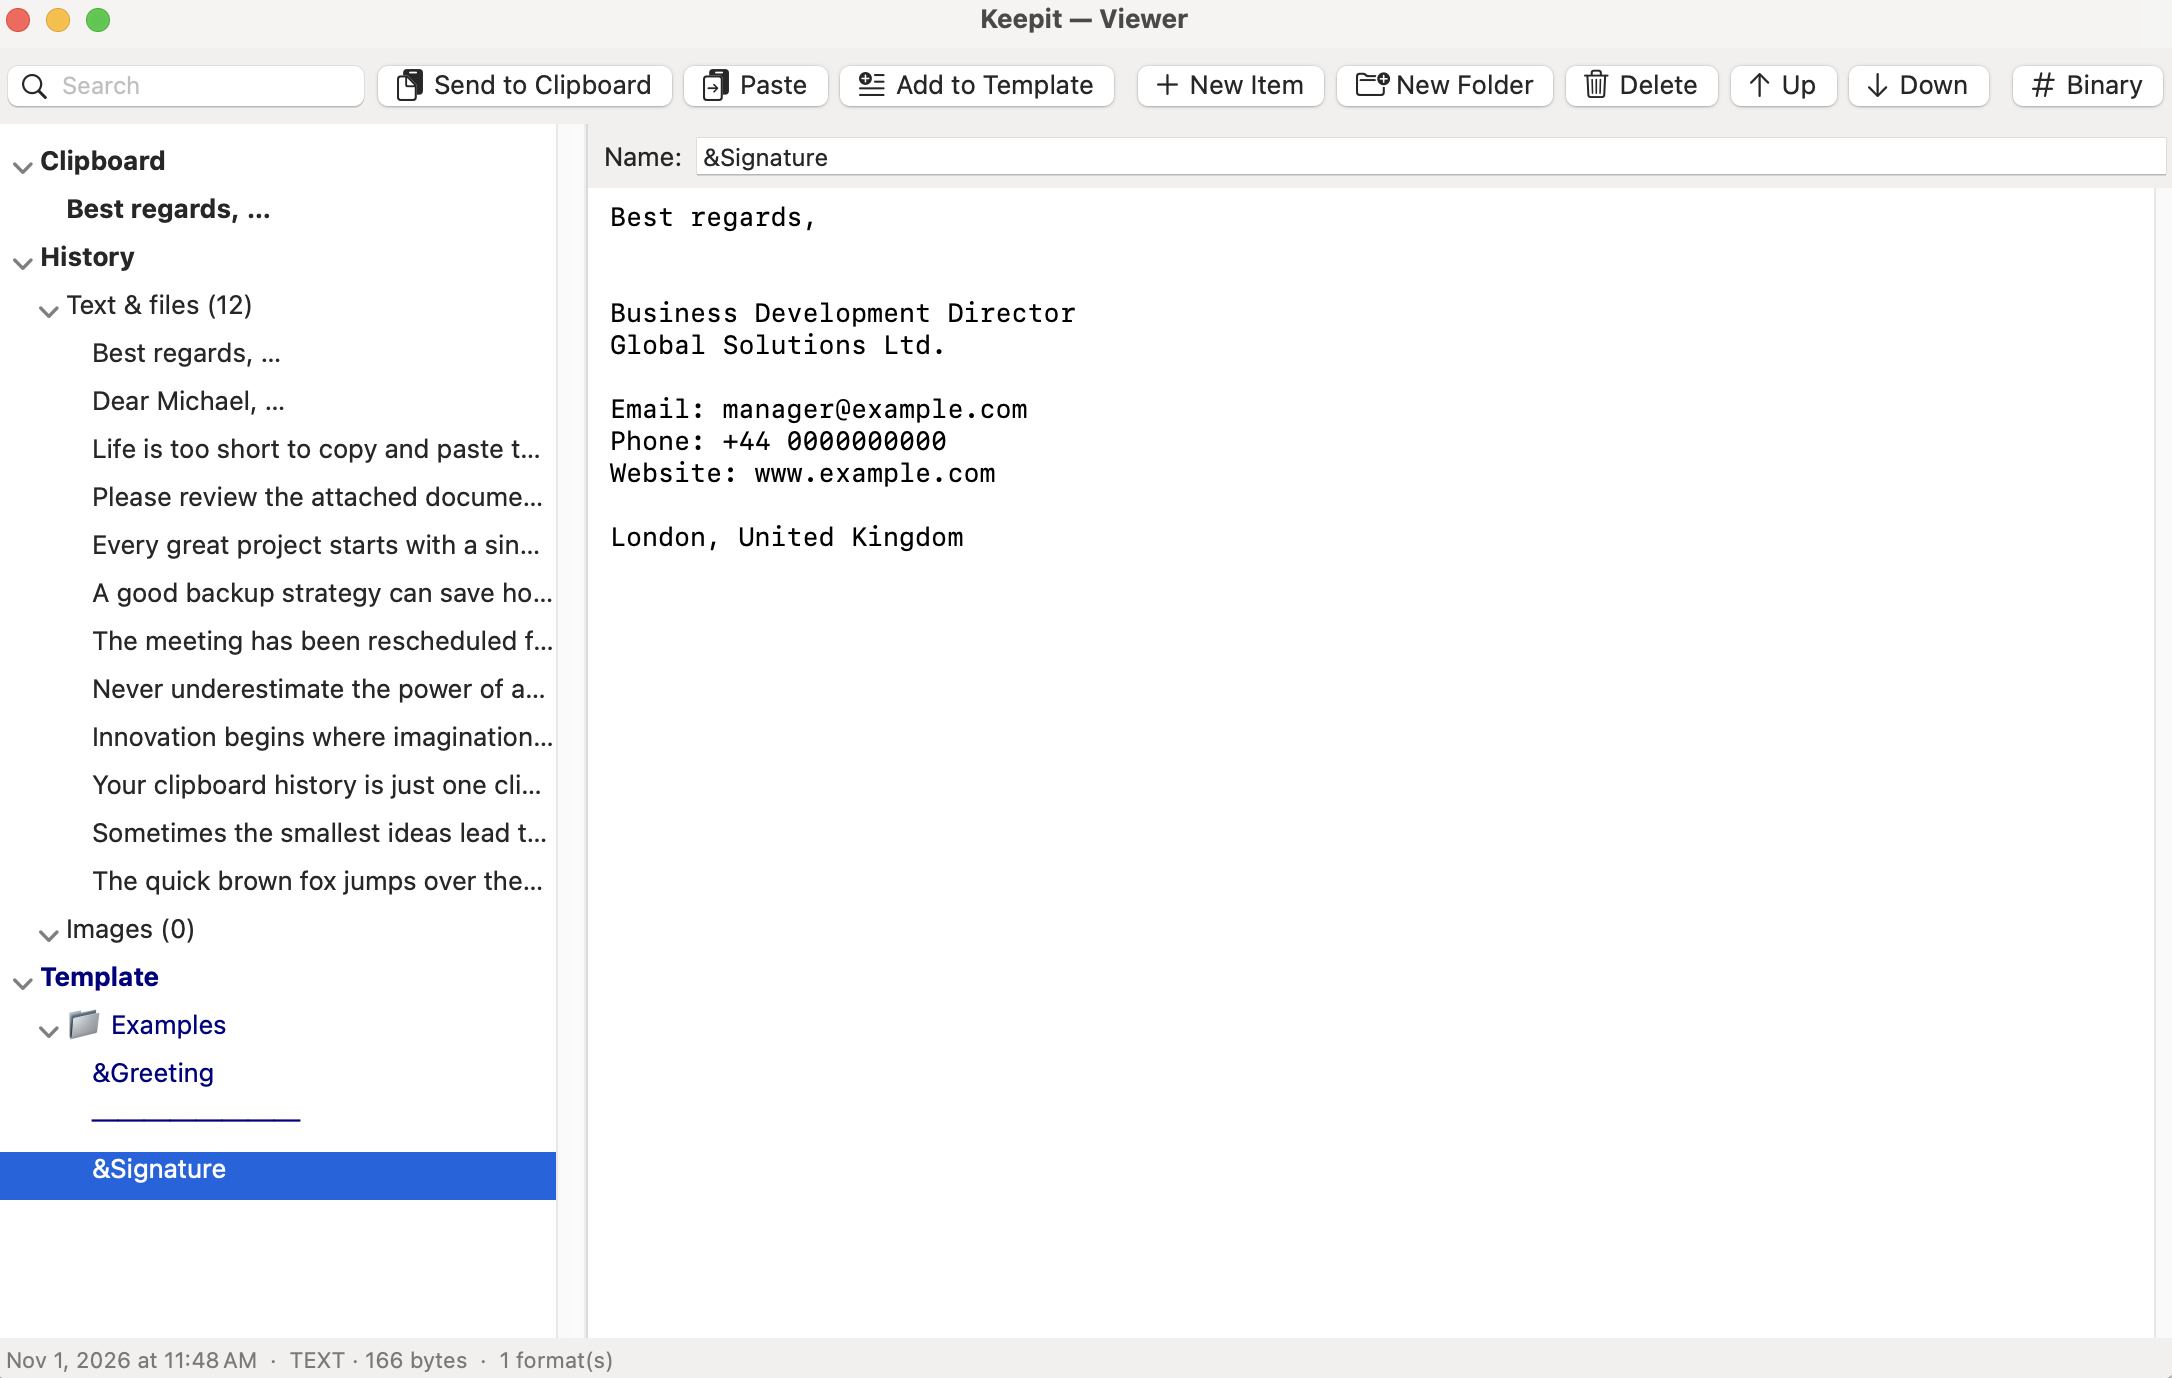
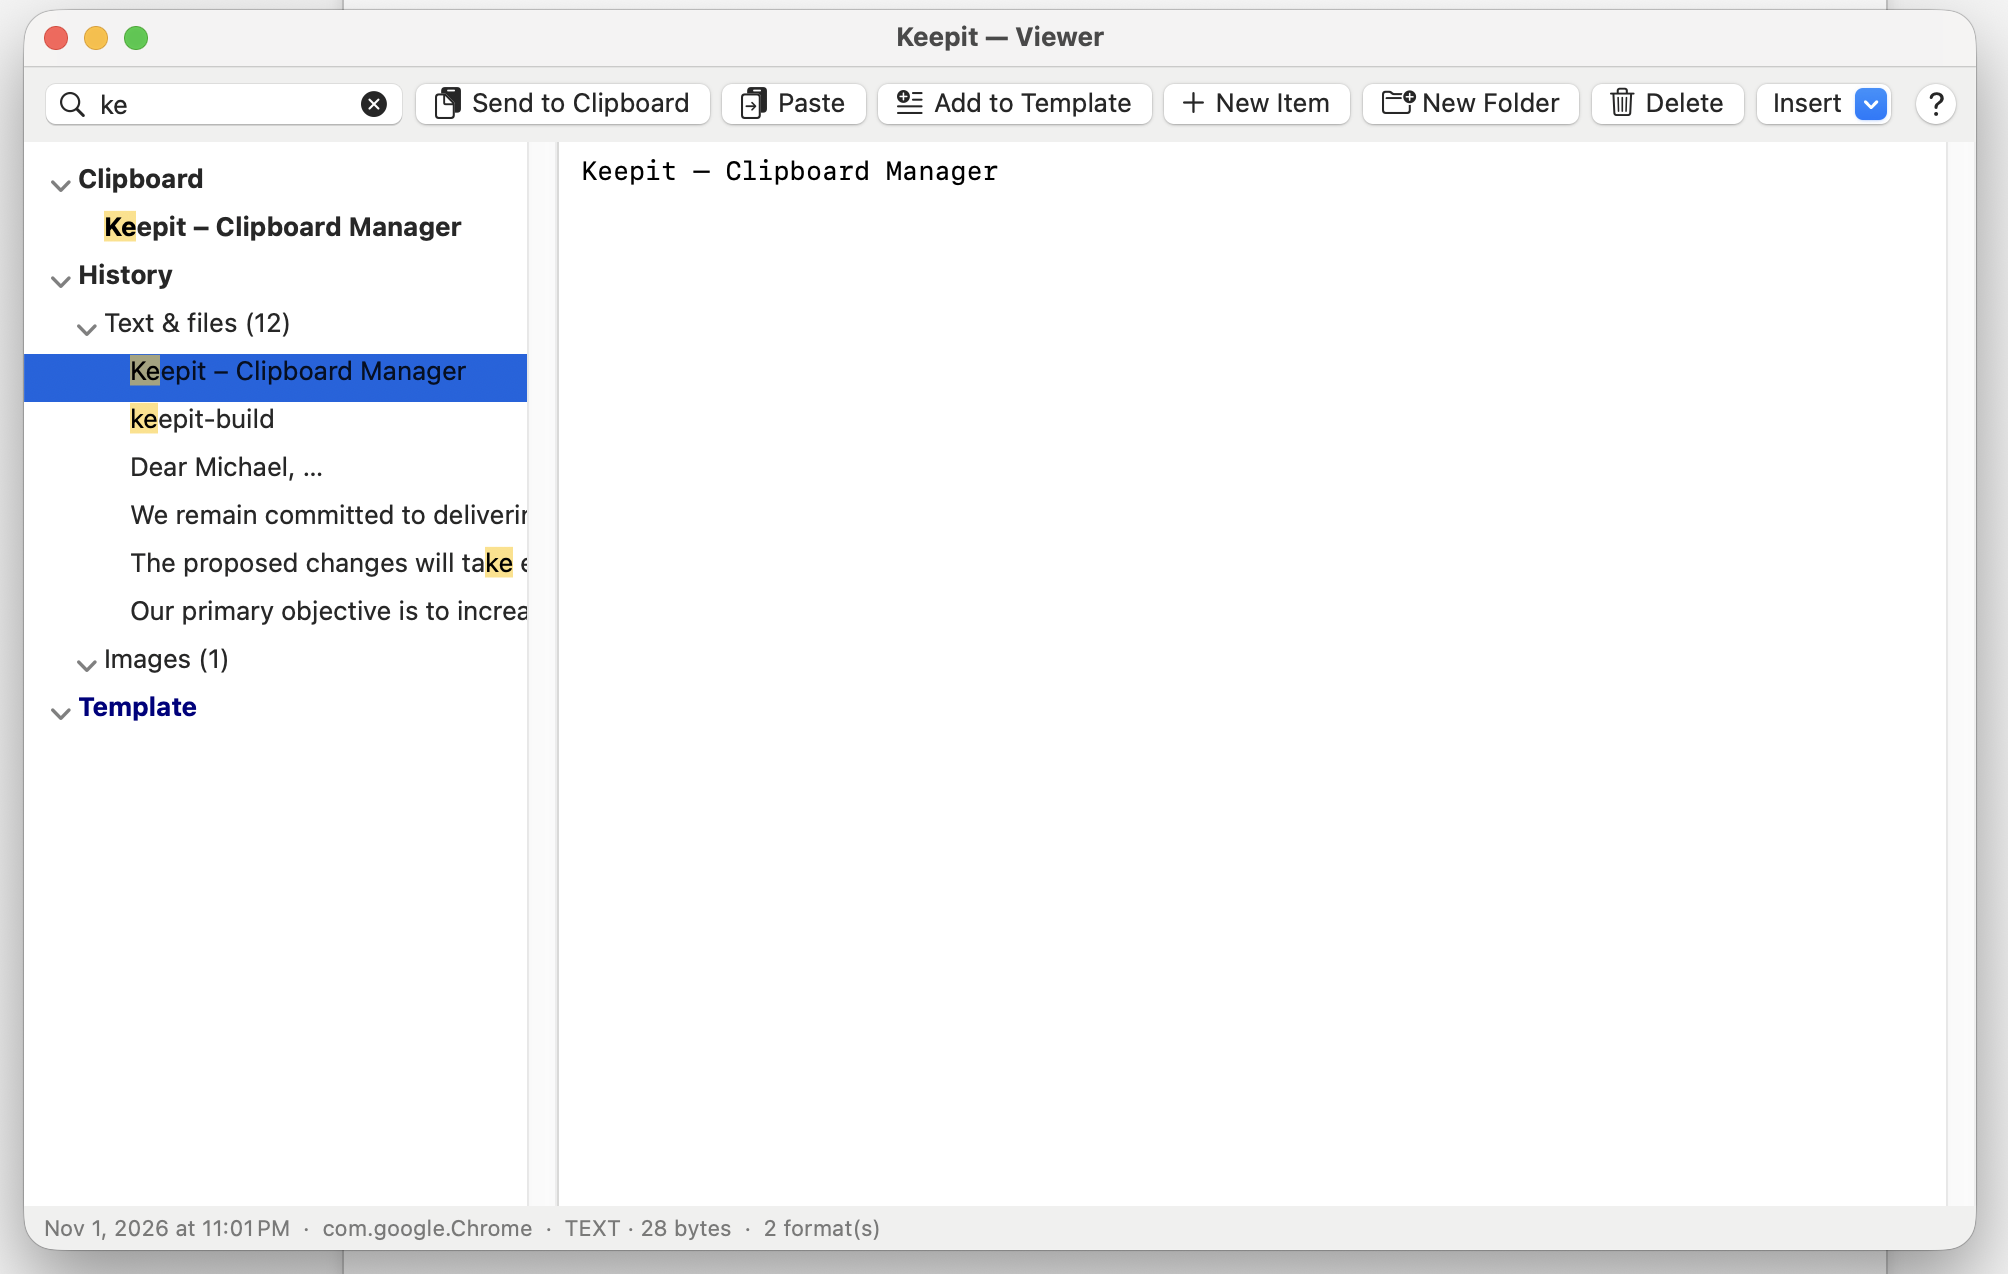
Site and guide: 2.9.1 Viewer screenshot with search highlight
Claude-Session: https://claude.ai/code/session_018CvCqxSRbLMzpaocuVb3aG

Changed region(s): [[0.0, 0.0, 1.0, 1.0]]

diff --git a/docs/site/guide.html b/docs/site/guide.html
@@ -242,7 +242,7 @@ the empty line.</p>
 <h2 id="part-4-the-viewer">Part 4 — The Viewer</h2>
 <p><em>Viewer…</em> in the menu, or a right-click on the 📎 icon, opens a window with three trees: <strong>Clipboard</strong>
 (the clipboard right now, read-only), <strong>History</strong> (<em>Text &amp; files</em> and <em>Images</em>) and <strong>Template</strong>.</p>
-<figure class="shot" style="max-width:1086px"><a href="img/guide/viewer.png" class="zoom" title="Open full size"><img src="img/guide/viewer.png" alt="The Viewer with a template selected" width="1086" height="689" loading="lazy"></a><figcaption>The Viewer with a template selected</figcaption></figure>
+<figure class="shot" style="max-width:1004px"><a href="img/guide/viewer.png" class="zoom" title="Open full size"><img src="img/guide/viewer.png" alt="The Viewer with a template selected" width="1004" height="637" loading="lazy"></a><figcaption>The Viewer with a template selected</figcaption></figure>
 <ul>
 <li>Select an item to see it on the right. Text is editable in place — changes apply when you leave
   the editor; images are shown; file lists open the file on double-click. <em>Show as Hex Dump</em> in the
@@ -255,7 +255,7 @@ the empty line.</p>
   reorder by dragging or with <em>Up</em> / <em>Down</em>. ⌫ deletes the selected item.</li>
 <li>The status bar shows the date, source app, format and size.</li>
 </ul>
-<figure class="shot" style="max-width:1091px"><a href="img/guide/viewer-search.png" class="zoom" title="Open full size"><img src="img/guide/viewer-search.png" alt="Searching in the Viewer highlights matches" width="1091" height="686" loading="lazy"></a><figcaption>Searching in the Viewer highlights matches</figcaption></figure>
+<figure class="shot" style="max-width:1004px"><a href="img/guide/viewer-search.png" class="zoom" title="Open full size"><img src="img/guide/viewer-search.png" alt="Searching in the Viewer highlights matches" width="1004" height="637" loading="lazy"></a><figcaption>Searching in the Viewer highlights matches</figcaption></figure>
 <hr />
 <h2 id="part-5-preferences">Part 5 — Preferences</h2>
 <p><code>⌘,</code> in the menu, or <em>Preferences…</em>. Every option with a <strong>?</strong> next to it has a popover that explains
